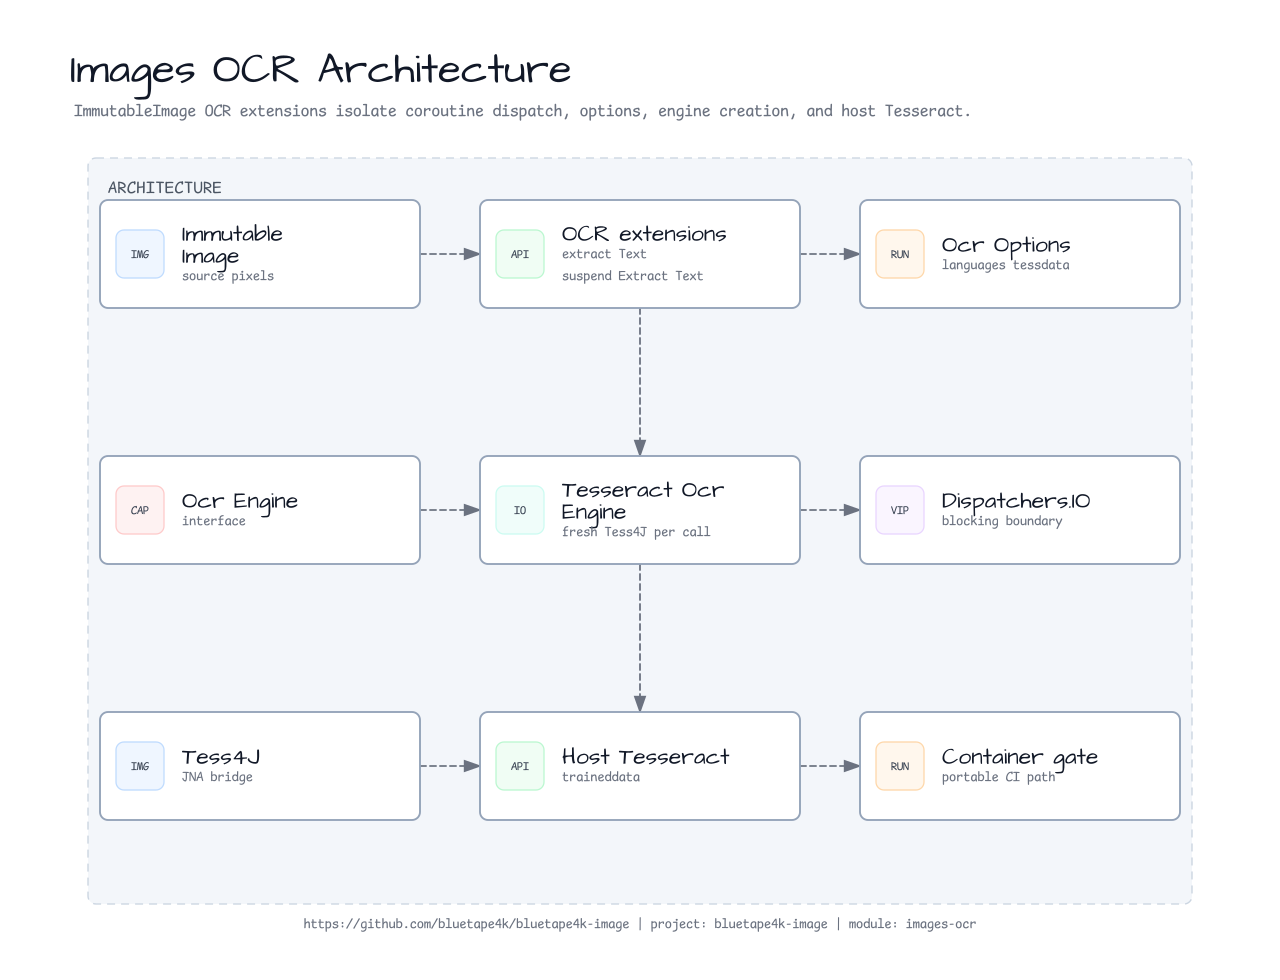
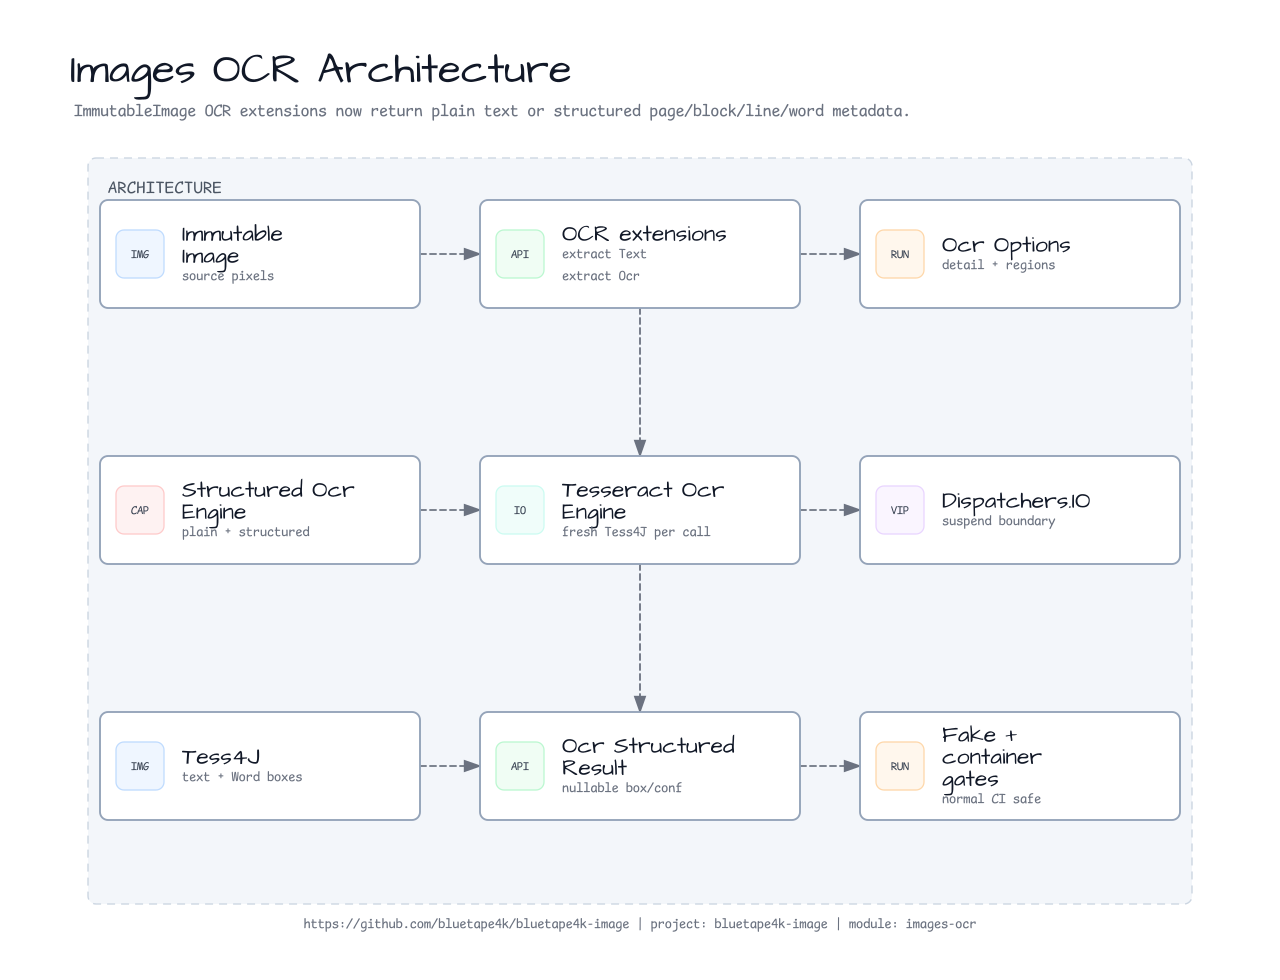
docs: refresh structured OCR diagrams
Show the structured OCR API flow in README diagrams so issue #216 is visible from the rendered images, not only from prose.

Constraint: README diagram PNGs are generated from docs/scripts/generate-readme-visual-assets.py and must satisfy repo-local visual asset validation.\nRejected: Editing PNG/SVG assets manually | generated assets would drift from the source script.\nConfidence: high\nScope-risk: narrow\nDirective: Update the generator first when README diagram content changes.\nTested: python3 docs/scripts/generate-readme-visual-assets.py; xmllint --noout on touched SVGs; python3 docs/scripts/validate-readme-visual-assets.py; diagram geometry, endpoint, connector, sequence-style, and mixed-corner audits; full-size PNG inspection; git diff --check.\nNot-tested: Kotlin runtime tests, documentation-only change.

diff --git a/docs/scripts/generate-readme-visual-assets.py b/docs/scripts/generate-readme-visual-assets.py
@@ -350,42 +350,43 @@ def render_diagram(spec: DiagramSpec) -> str:
 
 
 def render_fireworks_ocr_sequence(spec: DiagramSpec) -> str:
-    width, height = 1900, 1055
+    width, height = 2050, 1120
     participants = (
-        ("caller", "Caller", "blocking or suspend", 200),
-        ("ext", "OCR extension", "validate options", 500),
-        ("io", "Dispatchers.IO", "blocking bridge", 800),
-        ("engine", "OCR engine", "fresh Tess4J", 1100),
-        ("native", "Host Tesseract", "traineddata", 1400),
-        ("result", "Result text", "String", 1700),
+        ("caller", "Caller", "plain or structured", 190),
+        ("ext", "OCR extension", "extractOcr APIs", 500),
+        ("io", "Dispatchers.IO", "blocking bridge", 810),
+        ("engine", "Structured OCR\nEngine", "fresh Tess4J", 1120),
+        ("native", "Host Tesseract", "text + words", 1430),
+        ("result", "Structured OCR\nResult", "pages blocks words", 1740),
     )
     x_by_key = {key: x for key, _, _, x in participants}
     messages = (
-        ("caller", "ext", "build OcrOptions", 322, False),
-        ("ext", "io", "withContext(IO)", 402, False),
-        ("io", "engine", "create client", 482, False),
-        ("engine", "native", "recognize image", 562, False),
-        ("native", "engine", "text result", 652, True),
-        ("engine", "io", "return text", 732, True),
-        ("io", "ext", "resume caller", 812, True),
-        ("ext", "caller", "String or OCR error", 892, True),
+        ("caller", "ext", "build OcrOptions detail + regions", 322, False),
+        ("ext", "io", "suspend path uses IO", 402, False),
+        ("io", "engine", "recognizeStructured", 482, False),
+        ("engine", "native", "doOCR + getWords(level)", 562, False),
+        ("native", "engine", "text + Word metadata", 652, True),
+        ("engine", "result", "map nullable box/confidence", 742, False),
+        ("result", "io", "OcrStructuredResult", 832, True),
+        ("io", "ext", "resume structured caller", 912, True),
+        ("ext", "caller", "text-compatible result", 992, True),
     )
     out = [
         f'<svg xmlns="http://www.w3.org/2000/svg" width="{width}" height="{height}" viewBox="0 0 {width} {height}" role="img" aria-label="{esc(spec.title)}">',
         "<defs>",
-        '  <marker id="arrow-blue" markerWidth="10" markerHeight="7" refX="9" refY="3.5" orient="auto"><polygon points="0 0, 10 3.5, 0 7" fill="#2563eb"/></marker>',
-        '  <marker id="arrow-gray" markerWidth="10" markerHeight="7" refX="9" refY="3.5" orient="auto"><polygon points="0 0, 10 3.5, 0 7" fill="#6b7280"/></marker>',
+        '  <marker id="arrow-blue" markerWidth="10" markerHeight="9" refX="9" refY="5" viewBox="0 0 10 10" orient="auto" markerUnits="userSpaceOnUse"><path d="M 0 0 L 10 5 L 0 10 Z" fill="#4f86c6" stroke="#4f86c6"/></marker>',
+        '  <marker id="arrow-gray" markerWidth="10" markerHeight="9" refX="9" refY="5" viewBox="0 0 10 10" orient="auto" markerUnits="userSpaceOnUse"><path d="M 0 0 L 10 5 L 0 10 Z" fill="#5f7f7a" stroke="#5f7f7a"/></marker>',
         "  <style>",
         '    .canvas{fill:#ffffff}.title{font-family:"Architects Daughter";font-size:42px;fill:#111827;font-weight:400}.subtitle{font-family:"Comic Mono";font-size:16px;fill:#6b7280;font-weight:400}',
-        '    .card{fill:#ffffff;stroke:#94a3b8;stroke-width:1.9}.node-title{font-family:"Architects Daughter";font-size:20px;fill:#111827;font-weight:400}.detail,.label,.note{font-family:"Comic Mono";fill:#6b7280;font-weight:400}.detail{font-size:12px}.label{font-size:12px;fill:#374151}.note{font-size:13px}.lifeline{stroke:#cbd5e1;stroke-width:1.5;stroke-dasharray:7 7}.activation{fill:#dbeafe;stroke:#93c5fd;stroke-width:1}',
-        '    .edge{stroke:#2563eb;stroke-width:2.1;fill:none;marker-end:url(#arrow-blue);stroke-linecap:round}.edge-return{stroke:#6b7280;stroke-width:1.8;fill:none;marker-end:url(#arrow-gray);stroke-linecap:round;stroke-dasharray:6 4}',
+        '    .card{fill:#ffffff;stroke:#94a3b8;stroke-width:1.9}.node-title{font-family:"Architects Daughter";font-size:20px;fill:#111827;font-weight:400}.detail,.label,.note{font-family:"Comic Mono";fill:#6b7280;font-weight:400}.detail{font-size:12px}.label{font-size:12px;fill:#374151}.note{font-size:13px}.lifeline{stroke:#cbd5e1;stroke-width:1.5;stroke-dasharray:7 7}.activation{fill:#dcebf8;stroke:#9bbfdf;stroke-width:1}',
+        '    .edge{stroke:#4f86c6;stroke-width:2.1;fill:none;marker-end:url(#arrow-blue);stroke-linecap:round}.edge-return{stroke:#5f7f7a;stroke-width:1.8;fill:none;marker-end:url(#arrow-gray);stroke-linecap:round;stroke-dasharray:6 4}',
         "  </style>",
         "</defs>",
         f'<rect class="canvas" width="{width}" height="{height}"/>',
         f'<desc>{esc(spec.intent)} Source: {esc(spec.source)}</desc>',
         f'<text class="title" x="70" y="78">{esc(spec.title)}</text>',
         f'<text class="subtitle" x="74" y="112">{esc(spec.subtitle)}</text>',
-        f'<rect x="88" y="158" width="{width - 176}" height="810" rx="8" fill="#f3f6fa" stroke="#cbd5e1" stroke-width="1.4" stroke-dasharray="8 6"/>',
+        f'<rect class="frame panel" x="88" y="158" width="{width - 176}" height="880" rx="8" fill="#f3f6fa" stroke="#cbd5e1" stroke-width="1.4" stroke-dasharray="8 6"/>',
         '<g id="participants">',
     ]
     palette = [
@@ -399,12 +400,24 @@ def render_fireworks_ocr_sequence(spec: DiagramSpec) -> str:
     header_y, header_w, header_h = 190, 250, 78
     for index, (key, title, detail, x) in enumerate(participants):
         fill, stroke = palette[index % len(palette)]
+        title_lines = tuple(title.split("\n"))
+        if len(title_lines) == 1:
+            title_text = [
+                f'<text class="node-title participant" x="{x}" y="{header_y + 32}" text-anchor="middle" dominant-baseline="middle">{esc(title_lines[0])}</text>'
+            ]
+            detail_y = header_y + 56
+        else:
+            title_text = [
+                f'<text class="node-title participant" x="{x}" y="{header_y + 24 + offset * 22}" text-anchor="middle" dominant-baseline="middle">{esc(line)}</text>'
+                for offset, line in enumerate(title_lines)
+            ]
+            detail_y = header_y + 68
         out.extend(
             [
                 f'<rect class="card participant-card" x="{x - header_w / 2:.1f}" y="{header_y}" width="{header_w}" height="{header_h}" rx="8" style="fill:{fill};stroke:{stroke};stroke-width:1.8"/>',
-                f'<text class="node-title" x="{x}" y="{header_y + 32}" text-anchor="middle" dominant-baseline="middle">{esc(title)}</text>',
-                f'<text class="detail" x="{x}" y="{header_y + 56}" text-anchor="middle" dominant-baseline="middle">{esc(detail)}</text>',
-                f'<line class="lifeline" x1="{x}" y1="{header_y + header_h}" x2="{x}" y2="900"/>',
+                *title_text,
+                f'<text class="detail role" x="{x}" y="{detail_y}" text-anchor="middle" dominant-baseline="middle">{esc(detail)}</text>',
+                f'<line class="lifeline" x1="{x}" y1="{header_y + header_h}" x2="{x}" y2="1010"/>',
             ]
         )
     out.append("</g><g id=\"messages\">")
@@ -415,12 +428,12 @@ def render_fireworks_ocr_sequence(spec: DiagramSpec) -> str:
         label_w = min(300, max(148, len(label) * 8.2 + 76))
         label_center = (sx + tx) / 2
         lx = label_center - label_w / 2
-        badge_color = "#6b7280" if dashed else "#2563eb"
+        badge_color = "#5f7f7a" if dashed else "#4f86c6"
         out.extend(
             [
                 f'<path class="{css}" d="M {sx} {y} L {tx} {y}"/>',
                 f'<rect class="activation" x="{tx - 4}" y="{y - 13}" width="8" height="28" rx="3"/>',
-                f'<rect x="{lx:.1f}" y="{y - 47}" width="{label_w}" height="28" rx="9" fill="#ffffff" stroke="#d1d5db"/>',
+                f'<rect class="labelPill" x="{lx:.1f}" y="{y - 47}" width="{label_w}" height="28" rx="9" fill="#ffffff" stroke="#d1d5db"/>',
                 f'<circle cx="{lx + 18:.1f}" cy="{y - 33}" r="12" fill="{badge_color}"/>',
                 f'<text class="label" x="{lx + 18:.1f}" y="{y - 32}" text-anchor="middle" dominant-baseline="middle" style="fill:#ffffff;font-size:12px">{index}</text>',
                 f'<text class="label" x="{label_center + 16:.1f}" y="{y - 33}" text-anchor="middle" dominant-baseline="middle">{esc(label)}</text>',
@@ -715,20 +728,20 @@ def specs() -> tuple[DiagramSpec, ...]:
             (("resize", "FfmVipsResize", ("geometry op",), 3), ("thumb", "FfmVipsThumbnail", ("thumbnail op",), 4), ("writers", "Ffm writers", ("encode output",), 5)),
             (("format", "FfmVipsFormatSupport", ("capability",), 0), ("native", "FFM native runtime", ("symbols + linker",), 1), ("tests", "Golden tests", ("resize/filter",), 2)),
         ), "FfmVipsImage.kt, FfmVipsRuntime.kt, ops/*, writer/*"),
-        stack_spec("images-ocr-architecture-01", "Images OCR Architecture", "ImmutableImage OCR extensions isolate coroutine dispatch, options, engine creation, and host Tesseract.", (
-            (("image", "ImmutableImage", ("source pixels",), 0), ("extensions", "OCR extensions", ("extractText", "suspendExtractText"), 1), ("options", "OcrOptions", ("languages tessdata",), 2)),
-            (("engine", "OcrEngine", ("interface",), 3), ("tess", "TesseractOcrEngine", ("fresh Tess4J per call",), 4), ("dispatch", "Dispatchers.IO", ("blocking boundary",), 5)),
-            (("tess4j", "Tess4J", ("JNA bridge",), 0), ("native", "Host Tesseract", ("traineddata",), 1), ("tests", "Container gate", ("portable CI path",), 2)),
+        stack_spec("images-ocr-architecture-01", "Images OCR Architecture", "ImmutableImage OCR extensions now return plain text or structured page/block/line/word metadata.", (
+            (("image", "ImmutableImage", ("source pixels",), 0), ("extensions", "OCR extensions", ("extractText", "extractOcr"), 1), ("options", "OcrOptions", ("detail + regions",), 2)),
+            (("engine", "StructuredOcrEngine", ("plain + structured",), 3), ("tess", "TesseractOcrEngine", ("fresh Tess4J per call",), 4), ("dispatch", "Dispatchers.IO", ("suspend boundary",), 5)),
+            (("tess4j", "Tess4J", ("text + Word boxes",), 0), ("result", "OcrStructuredResult", ("nullable box/conf",), 1), ("tests", "Fake + container gates", ("normal CI safe",), 2)),
         ), "images-ocr/src/main/kotlin/** and images-ocr README runtime notes"),
-        stack_spec("images-ocr-class-diagram-01", "Images OCR Class Diagram", "Public OCR extension points are small: options, engine interface, and Tesseract implementation.", (
-            (("extensions", "OCR extensions", ("ImmutableImageOcrExtensions", "extractText, suspendExtractText"), 0), ("engine", "OcrEngine", ("recognize(image, options)",), 1), ("options", "OcrOptions", ("languages, psm, vars",), 2)),
-            (("tesseract", "TesseractOcrEngine", ("OcrEngine impl",), 3), ("psm", "Page Segmentation", ("mode enum",), 4), ("oem", "Engine Mode", ("mode enum",), 5)),
-            (("tests", "OCR tests", ("native and container",), 0), ("fixtures", "OCR fixtures", ("test images",), 1), ("ci", "CI gate", ("container-backed",), 2)),
+        stack_spec("images-ocr-class-diagram-01", "Images OCR Class Diagram", "Public OCR types separate source-compatible text helpers from structured extraction metadata.", (
+            (("extensions", "OCR extensions", ("extractText/extractOcr", "suspend variants"), 0), ("engine", "StructuredOcrEngine", ("recognizeStructured",), 1), ("options", "OcrOptions", ("detail, regions, vars",), 2)),
+            (("result", "OcrStructuredResult", ("pages blocks lines words",), 3), ("geometry", "OcrBoundingBox", ("nullable source boxes",), 4), ("region", "OcrRegion", ("caller metadata",), 5)),
+            (("tesseract", "TesseractOcrEngine", ("internal Tess4J adapter",), 0), ("modes", "Tesseract modes", ("PSM + OEM enums",), 1), ("tests", "OCR tests", ("fake + gated smoke",), 2)),
         ), "OcrEngine.kt, OcrOptions.kt, TesseractOcrEngine.kt, ImmutableImageOcrExtensions.kt", "Class relationships are summarized to keep README scale readable."),
-        stack_spec("images-ocr-sequence-diagram-01", "Images OCR Recognition Sequence", "A caller builds options, crosses the IO dispatcher, and receives text from a fresh Tesseract client.", (
-            (("caller", "Caller", ("blocking or suspend",), 0), ("ext", "OCR extension", ("validate options",), 1), ("dispatcher", "Dispatchers.IO", ("blocking bridge",), 2)),
-            (("engine", "TesseractOcrEngine", ("new Tess4J",), 3), ("native", "Host Tesseract", ("recognize text",), 4), ("result", "Recognized text", ("String result",), 5)),
-            (("error", "OCR failure", ("native/config errors",), 0), ("cleanup", "Per-call state", ("not shared",), 1), ("tests", "Container tests", ("portable check",), 2)),
+        stack_spec("images-ocr-sequence-diagram-01", "Images OCR Recognition Sequence", "A caller requests structured detail, Tesseract returns text/word data, and the engine maps explicit nullable metadata.", (
+            (("caller", "Caller", ("plain or structured",), 0), ("ext", "OCR extension", ("extractOcr path",), 1), ("dispatcher", "Dispatchers.IO", ("suspend bridge",), 2)),
+            (("engine", "TesseractOcrEngine", ("recognizeStructured",), 3), ("native", "Host Tesseract", ("doOCR + getWords",), 4), ("result", "Structured result", ("text + entries",), 5)),
+            (("error", "OCR failure", ("native/config errors",), 0), ("metadata", "Missing metadata", ("null not invented",), 1), ("tests", "Fake fixtures", ("normal CI path",), 2)),
         ), "ImmutableImageOcrExtensions.kt and TesseractOcrEngine.kt", "Fresh OCR clients avoid shared mutable Tess4J state."),
     )
 

diff --git a/docs/review/2026-07-02-issue-216-structured-ocr-diagrams-review.md b/docs/review/2026-07-02-issue-216-structured-ocr-diagrams-review.md
@@ -1,0 +1,23 @@
+# Issue #216 Structured OCR Diagram Review
+
+## Scope
+
+- Refreshed `images-ocr` README architecture, class, and sequence diagrams so they show the structured OCR API introduced by issue #216.
+- Kept the change source-backed in `docs/scripts/generate-readme-visual-assets.py` and regenerated matching SVG/PNG assets.
+
+## Evidence
+
+- `python3 docs/scripts/generate-readme-visual-assets.py`: generated diagrams=19 charts=10.
+- `xmllint --noout` on the three touched `images-ocr` SVG files: pass.
+- `python3 docs/scripts/validate-readme-visual-assets.py`: pass, `finalSvg=51`, `png=pass`, `textFit=1777`, `routeCrossings=0`, `sequenceLabels=41`.
+- `diagram-geometry-audit.py`: geometry_failures=0 for all three touched SVG files.
+- `diagram-endpoint-audit.py`: pass for the sequence diagram.
+- `diagram-connector-audit.py`: pass, `markers=2`, `connectors=5`, `intrusions=0`, `crossings=0`.
+- `diagram-sequence-style-audit.py`: pass, `sequence_files=1`.
+- `diagram-mixed-corner-audit.py`: pass, `files=3`, `paths=25`, `q_bends=0`.
+- Full-size PNG inspection: no clipped text, incoherent overlap, or connector/label collision found.
+- `git diff --check`: pass.
+
+## Residual Risk
+
+- Documentation-only change; no Kotlin runtime behavior changed.
